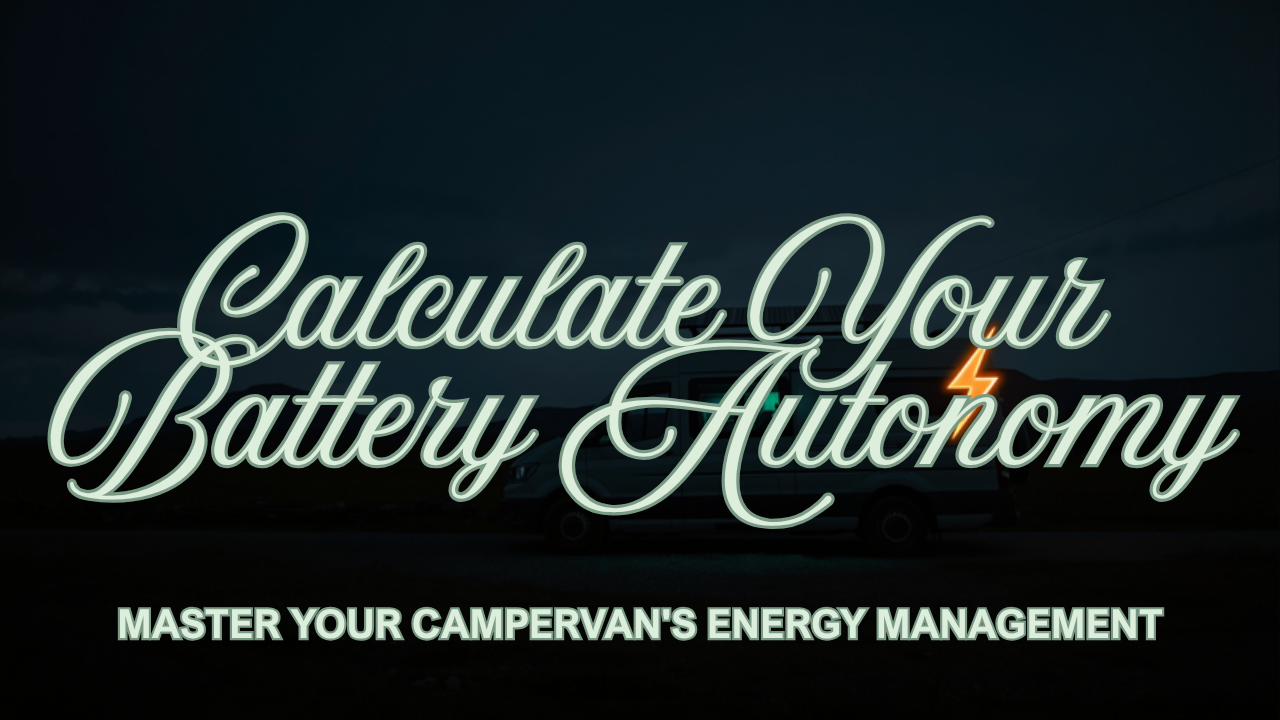
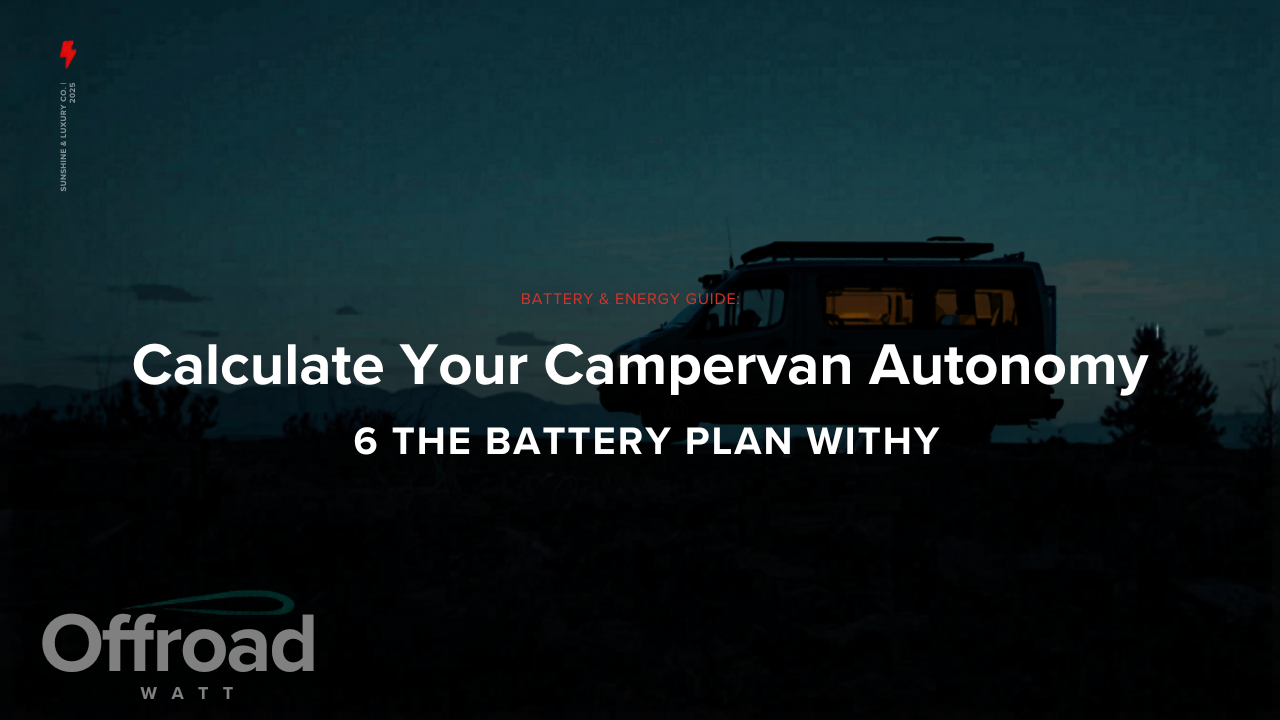
feat(blog): on-brand hero v2 (bold sans + OffroadWatt wordmark)
Replace the blog hero with a brand-consistent version: bold technical sans
headline + OffroadWatt wordmark, matching the Instagram/Facebook visuals.
Note: subtitle text needs a one-line fix in Canva (flagged in recap).

diff --git a/marketing/how-to-calculate-campervan-battery-autonomy.md b/marketing/how-to-calculate-campervan-battery-autonomy.md
@@ -56,7 +56,11 @@ Generated PNGs are committed; the editable Canva designs are linked below (perma
 
 | Asset | File | Size | Canva edit link |
 |-------|------|------|-----------------|
-| Blog hero / og:image | `landing/blog/assets/battery-autonomy-hero.png` | 1280×720 | https://www.canva.com/d/WuMW9YU_u_H8Olf |
+| Blog hero / og:image | `landing/blog/assets/battery-autonomy-hero.png` | 1280×720 | https://www.canva.com/d/jQ6_0qbQuYdoLh2 |
+
+> ⚠ **Blog hero fix:** the headline + OffroadWatt wordmark are correct, but the AI rendered the
+> small subtitle as gibberish ("6 THE BATTERY PLAN WITHY"). Open the Canva edit link, fix that one
+> text line (e.g. "Master your campervan's energy"), re-export at 1280×720, and replace the PNG.
 | Instagram | `marketing/social/instagram-battery-autonomy.png` | 1080×1350 | https://www.canva.com/d/pBaflTD-V9UUuJc |
 | Facebook | `marketing/social/facebook-battery-autonomy.png` | 1080×1080 | https://www.canva.com/d/QbvGwh-IIqI3hp6 |
 
